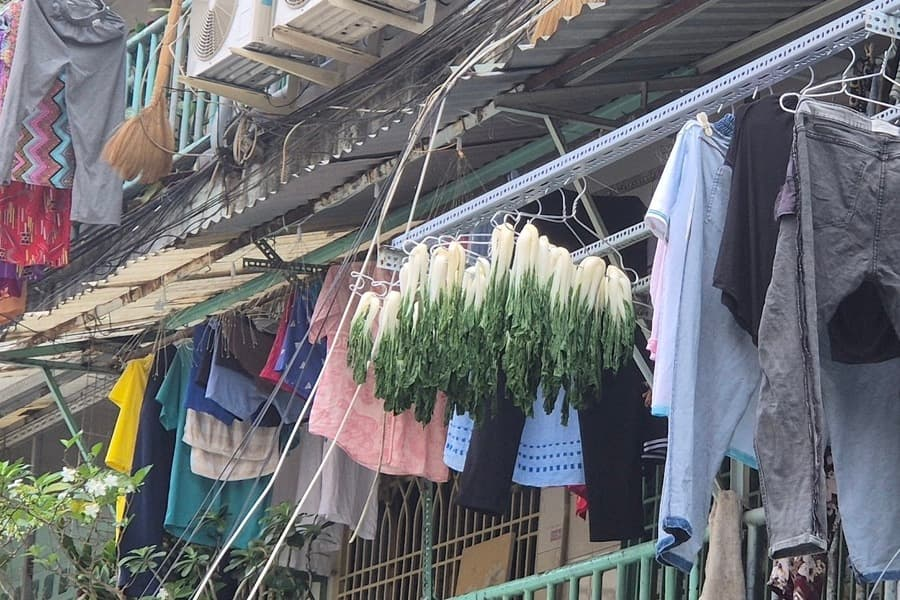
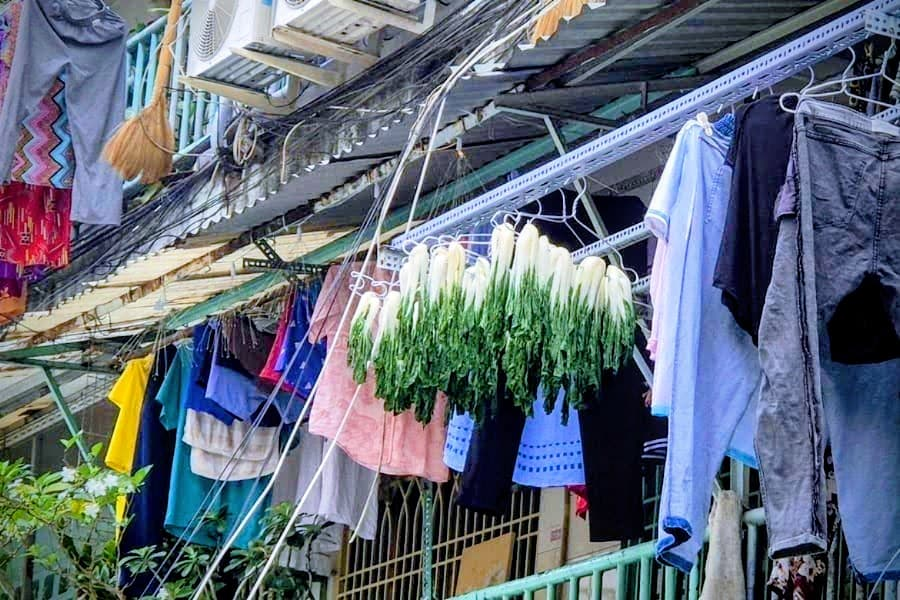
Update

diff --git a/_posts/travel/2020-06-06-poland.md b/_posts/travel/2020-06-06-poland.md
@@ -27,8 +27,8 @@ Geological Museum (free) is bigger, similar and also exciting; but until the air
 * For grocery shopping - you'll find most things in Carrefour hypermarket in Plac Unii shopping mall; Carrefour BIO on Marszałkowska street is more central. 
 
 ##### 1.2 Śródmieście Północne
-* &#9733; [Neon Museum](https://www.neonmuzeum.org/english) is an exciting place to learn about [neonisation of Warsaw](https://hiddencompass.net/story/the-three-lives-of-warsaws-neon/) (opening in the new location in July 2025?).
-* Warsaw from above: Palace of Culture and Science 30th floor [viewing terrace](https://pkin.pl/en/viewing-terrace/) is great. When the Varso Tower [observation deck](https://varso.com/en/amenities#observation) opens (August 2025?) it might become my first choice - as from there you'll see both Warsaw and Palace of Culture and Science. I skipped [Bell Tower of St. Anne's Church](http://taraswidokowy.pl/).
+* &#9733; [Neon Museum](https://www.neonmuzeum.org/english) is an exciting place to learn about [neonisation of Warsaw](https://hiddencompass.net/story/the-three-lives-of-warsaws-neon/).
+* Warsaw from above: Palace of Culture and Science 30th floor [viewing terrace](https://pkin.pl/en/viewing-terrace/) is great. When the Varso Tower [observation deck](https://varso.com/en/amenities#observation) opens it might become my first choice - as from there you'll see both Warsaw and Palace of Culture and Science. I skipped [Bell Tower of St. Anne's Church](http://taraswidokowy.pl/).
 * Krakowskie Przedmieście and Nowy Świat are part of [The Royal Route](https://warsawinsider.pl/the-royal-route/). Along this lovely, if touristy, stretch you'll find many churches, the Presidential Palace, University of Warsaw (visit the courtyard with a photo exhibition), Warsaw Scientific Society, etc.
 * Exciting old architecture: Teatr Wielki (Polish National Opera), The Academy of Fine Arts in [Czapski Palace](https://en.wikipedia.org/wiki/Czapski_Palace) (52.239406, 21.015045), National Cooperative Council (52.233593, 21.011971), the original E.Wedel Chocolate building (52.23337, 21.014728), this beautiful building (52.231558, 21.015243), Krasiński Library, etc. Plac Pięciu Rogów (Five Corners Square) is a modern version of a town square.
 * Exciting new architecture: [Złota 44](https://en.wikipedia.org/wiki/Z%C5%82ota_44) residential skyscraper is beautiful. Glass roof of the Złote Tarasy shopping mall. For more beautiful skyscrapers head to [Warsaw Spire](https://en.wikipedia.org/wiki/Warsaw_Spire); Browary Warszawskie nearby might be fun to explore.

diff --git a/_posts/kitchen/2014-01-01-palak-paneer.md b/_posts/kitchen/2014-01-01-palak-paneer.md
@@ -12,15 +12,15 @@ categories:
 * 20g ginger
 * 20g garlic (about 4 cloves)
 * some green chillies (depending how spicy they are)
-* 2 teaspoon garam masala
-* 1 teaspoon cumin powder
-* 1 teaspoon salt
+* 3 teaspoon garam masala
+* 1.5 teaspoon cumin powder
 * 0.25 teaspoon turmeric powder
+* 1 teaspoon salt
 <nbsp></nbsp>
-* neutral oil (e.g. sunflower)
+* olive oil
 * 200g tomatoes
-* 450g paneer
-* 600g spinach
+* 650g paneer
+* 750g spinach
 * 50g double cream
 <nbsp></nbsp>
 * wholegrain rice
@@ -28,11 +28,10 @@ categories:
 **Methods:**
 
 * Start boiling the rice.
-* To make the curry paste, handblender roughly chopped onions, chillies, garlic and ginger (no need to peel the ginger) with the spices - garam masala, cumin, turmeric and salt.
-* Finely chop the tomatoes.
-* In a heavy bottom pot, heat a bit of oil. Add the curry paste and fry for a couple of minutes, until it smells really good. Once it starts sticking to the bottom of the pot, add the tomato. Let it simmer on low heat.
-* Blanch the spinach in boiling water and immediately rinse it in cold water (to preserve its vibrant colour).
+* Fill a big pot with 1/3 water and bring to a boil. Add all the spinach and set a timer for 5 minutes. Then immediately drain the spinach and handblender it.
 * Heat a non-stick pan with oil. Cut the paneer into small cubes and fry it until golden on most sides.
-* Meanwhile, handblender the spinach and mix it into the pot.
-* Once the paneer is ready, mix it into the pot. Give them a couple of minutes to simmer together.
+* Meanwhile, make the curry paste: handblender roughly chopped onions, chillies, garlic and ginger (no need to peel the ginger) with the spices - garam masala, cumin, turmeric and salt.
+* Finely chop the tomatoes.
+* In a heavy bottom pot, heat a bit of oil. Add the curry paste and fry for a couple of minutes, until it smells really good. Once it starts sticking to the bottom of the pot, add the tomatoes. Let it simmer on low heat.
+* Once the paneer is ready, add it into the pot along with the spinach. Give them a couple of minutes to simmer together.
 * Take off the heat, stir in the cream. Taste and adjust salt and spiciness (Kashmiri chilli powder). Serve with rice.

diff --git a/pages/coffee.md b/pages/coffee.md
@@ -10,6 +10,8 @@ image:
 Favourite varieties: Chiroso, Sidra, Aji, Colombia, Ethiopia Gerse from Gerese in Yirgacheffe (Nigusse Debela), Rosado from Finca El Jaragual, coffee from Quebraditas in Huila in Colombia.
 Avoid: SL, Shyira (bad in milk).  
 
+Favourite farms: Quebraditas in Oporapa-Huila, Colombia; Granja Paraíso 92 in Piendamó, Cauca, Colombia.
+
 Favourite roasters: 
 [Long & Short](https://longshortlondon.com/) UK (the default, Rojas Chiroso, Peng 15 Sidra with complex alcoholic aroma), 
 [DAK Amsterdam](https://www.dakcoffeeroasters.com/) (Coco Bongo, Tropic Electric, Milky Cake),
@@ -57,24 +59,21 @@ Workshop Coffee.
 
 
 ### Favourites:
-* Day Trip.Order Flat White. <span style="color:#38B000">Colombian beans are awesome!</span>
-* Commons. <span style="color:#38B000"></span>
-* Snoozzze Coffee. <span style="color:#38B000"></span>
-* Kiss the Hippo.No loo. <span style="color:#38B000">Colombia Aji is great!</span>
-* Also: Lift, Pophams, Morr, Knees Up.
-* Give these another try? Profile Coffee, Colonna & Small's, sevente (Fireheart coffee is bad), Origin Coffee.
-
-<nbsp></nbsp>
-* Scenery. <span style="color:#38B000"></span>
-* Lodestar Coffee.
+* Day Trip. Order Flat White. <span style="color:#38B000">...</span>
+* Commons. <span style="color:#38B000">...</span>
+* Snoozzze Coffee. <span style="color:#38B000">...</span>
+* Kiss the Hippo. No loo. <span style="color:#38B000">...</span>
+* Also: Lift, Pophams, Knees Up, Morr.
+* Scenery. <span style="color:#38B000">Rosado is great.</span>
+* Long & Short.
 * Qima.
+* Lodestar Coffee.
 * Nostos Coffee.
 * Special Guests Coffee.
-* Long & Short.
+
 
 ### Try:
 * Senzo?
-* HARÜ Coffee? (no loo)
 * Caravan Coffee Roasters and Brewbar? (with a friend)
 * Brewed Online?
 
@@ -97,5 +96,9 @@ Workshop Coffee.
 <!---
 
 Colours: greyed out AEAEAE, info 84A98C, attention 38B000.
+
+Granja Paraíso 92 is a renowned, innovative family-owned coffee farm in Piendamó, Cauca, Colombia, celebrated for producing high-specialty coffee through advanced, strictly controlled fermentation techniques (e.g., thermal shock, double anaerobic). Known for unique, fruit-forward flavour.
+
+Quebraditas https://www.quebraditascoffeefarm.com/
 
 -->

diff --git a/_posts/kitchen/2013-01-02-broccoli-bean-mash.md b/_posts/kitchen/2013-01-02-broccoli-bean-mash.md
@@ -8,21 +8,14 @@ categories:
 
 **Ingredients:**
 
-* 40g olive oil
-* 1 teaspoon of chilli (chipotle chilli powder, chilli flakes, etc.)
-* 30g garlic (about 6 cloves)
-<nbsp></nbsp>
-* 400g broccoli (tenderstem are best, especially purple ones)
+* 400g broccoli
 * 700g pre-cooked white beans (white kidney beans, butter beans, etc.)
 * 0.25 teaspoon salt
 * 40g lemon juice
+* Chili crisp
 
 **Methods:**
 
-* Peel the garlic.
-* In a small pan heat the olive oil until hot but not yet smoking.
-* Meanwhile, place chilli flakes and chilli powder into a small glass jar. Pour the hot oil into the jar, the chilli flakes will sizzle. 
-* Use a garlic press to add garlic cloves into the jar of still hot oil.
-* Steam the broccoli (if not tenderstem, chopped into florets and stem slices).
-* Meanwhile, warm up the beans in the microwave. Add salt and lemon juice. Handblender into a mash. Taste and adjust salt and acidity (lemon juice).
-* Serve bean mash topped with steamed broccoli and drizzled with chilli oil from the jar.
+* Microwave or steam the broccoli.
+* Microwave the beans. Add salt and lemon juice. Handblender into a mash. Taste and adjust salt and acidity (lemon juice).
+* Serve bean mash topped with steamed broccoli and drizzled with chili crisp

diff --git a/_posts/travel/2020-01-01-cities.md b/_posts/travel/2020-01-01-cities.md
@@ -283,7 +283,7 @@ widgets:
   title: <a href="/travel/mexico/#cities" target="_self">Guadalajara, Mexico</a> #5+ million, 2nd biggest
   dates: 5 million
 - url:
-  image: city-generic.jpg
+  image: city-hanoi.jpg
   title: Hanoi, Vietnam #5+ million, 2nd biggest
   dates: 5 million
 - url:
